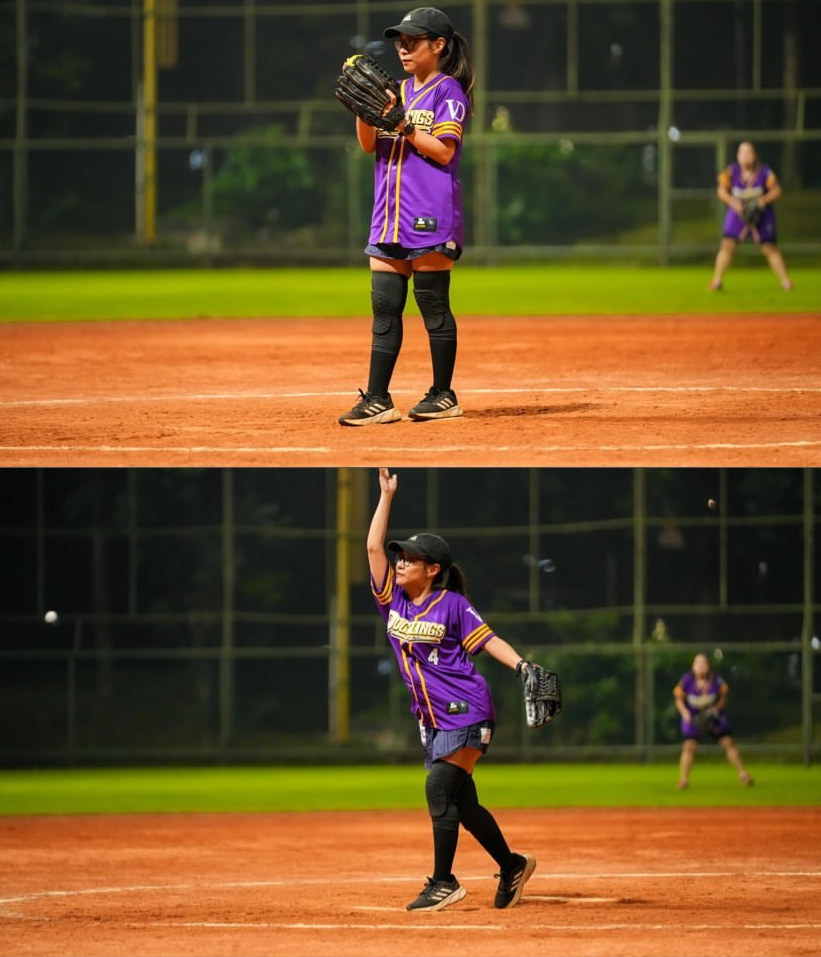
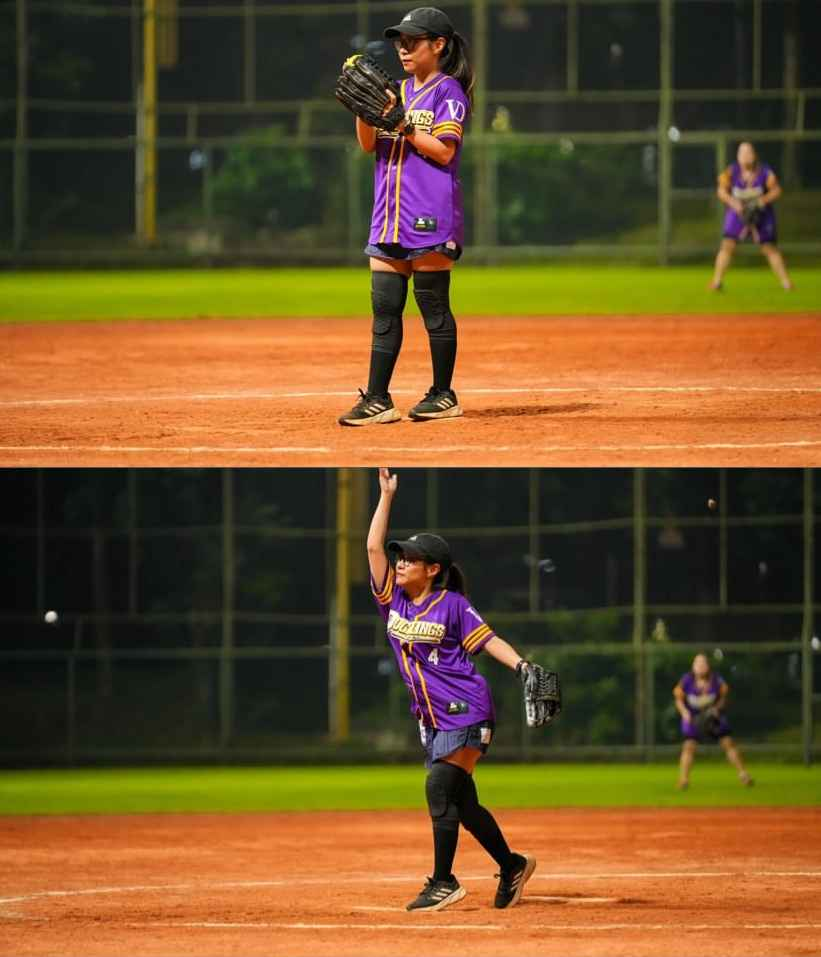
update

Changed region(s): [[0.4568, 0.0606, 0.5786, 0.2727], [0.4568, 0.6061, 0.5786, 0.7576], [0.5786, 0.6364, 0.609, 0.6667]]

diff --git a/index.html b/index.html
@@ -114,18 +114,18 @@
 								</div>
 								<div class="gallery">
 									<div class="group span-3">
-										<a href="images/gallery/part-one/p2.png" class="image filtered span-3" data-position="bottom"><img src="images/gallery/part-one/p2.png" alt="" /></a>
-										<a href="images/gallery/part-one/p1.png" class="image filtered span-1-5" data-position="center"><img src="images/gallery/part-one/p1.png" alt="" /></a>
-										<a href="images/gallery/part-one/p3.png" class="image filtered span-1-5" data-position="bottom"><img src="images/gallery/part-one/p3.png" alt="" /></a>
+										<a href="images/gallery/part-one/p2.jpg" class="image filtered span-3" data-position="bottom"><img src="images/gallery/part-one/p2.jpg" alt="" /></a>
+										<a href="images/gallery/part-one/p1.jpg" class="image filtered span-1-5" data-position="center"><img src="images/gallery/part-one/p1.jpg" alt="" /></a>
+										<a href="images/gallery/part-one/p3.jpg" class="image filtered span-1-5" data-position="bottom"><img src="images/gallery/part-one/p3.jpg" alt="" /></a>
 									</div>
 									<a href="images/gallery/part-one/p10.jpg" class="image filtered span-2-5" data-position="top"><img src="images/gallery/part-one/p10.jpg" alt="" /></a>
 									<div class="group span-4-5">
-										<a href="images/gallery/part-one/p8.png" class="image filtered span-3" data-position="top"><img src="images/gallery/part-one/p8.png" alt="" /></a>
-										<a href="images/gallery/part-one/p4.png" class="image filtered span-1-5" data-position="center"><img src="images/gallery/part-one/p4.png" alt="" /></a>
-										<a href="images/gallery/part-one/p7.png" class="image filtered span-1-5" data-position="bottom"><img src="images/gallery/part-one/p7.png" alt="" /></a>
-										<a href="images/gallery/part-one/p9.png" class="image filtered span-3" data-position="top"><img src="images/gallery/part-one/p9.png" alt="" /></a>
+										<a href="images/gallery/part-one/p8.jpg" class="image filtered span-3" data-position="top"><img src="images/gallery/part-one/p8.jpg" alt="" /></a>
+										<a href="images/gallery/part-one/p4.jpg" class="image filtered span-1-5" data-position="center"><img src="images/gallery/part-one/p4.jpg" alt="" /></a>
+										<a href="images/gallery/part-one/p7.jpg" class="image filtered span-1-5" data-position="bottom"><img src="images/gallery/part-one/p7.jpg" alt="" /></a>
+										<a href="images/gallery/part-one/p9.jpg" class="image filtered span-3" data-position="top"><img src="images/gallery/part-one/p9.jpg" alt="" /></a>
 									</div>
-									<a href="images/gallery/part-one/p11.png" class="image filtered span-2-5" data-position="right"><img src="images/gallery/part-one/p11.png" alt="" /></a>
+									<a href="images/gallery/part-one/p11.jpg" class="image filtered span-2-5" data-position="right"><img src="images/gallery/part-one/p11.jpg" alt="" /></a>
 								</div>
 								<div class="intro color2">
 									<h2 class="major">A Year to Remember</h2>
@@ -134,8 +134,8 @@
 																<div class="gallery">
 									<div class="group span-3">
 										<a href="images/gallery/fulls/01.jpg" class="image filtered span-3" data-position="bottom"><img src="images/gallery/thumbs/01.jpg" alt="" /></a>
-										<a href="images/gallery/part-one/p6.png" class="image filtered span-1-5" data-position="center"><img src="images/gallery/part-one/p6.png" alt="" /></a>
-										<a href="images/gallery/part-one/p12.png" class="image filtered span-1-5" data-position="bottom"><img src="images/gallery/part-one/p12.png" alt="" /></a>
+										<a href="images/gallery/part-one/p6.jpg" class="image filtered span-1-5" data-position="center"><img src="images/gallery/part-one/p6.jpg" alt="" /></a>
+										<a href="images/gallery/part-one/p12.jpg" class="image filtered span-1-5" data-position="bottom"><img src="images/gallery/part-one/p12.jpg" alt="" /></a>
 									</div>
 									<a href="images/gallery/fulls/09.jpg" class="image filtered span-2-5" data-position="right"><img src="images/gallery/thumbs/09.jpg" alt="" /></a>
 								</div>
@@ -315,7 +315,7 @@
 									<h1 class="major">For Everything You Are</h1>
 									<p>As we reach the end of this birthday card journey through memories, dreams, and the love that surrounds you, I just want to let it all sink in. Each section, every memory, wish, and dream here reflects the incredible person you are and the lasting impact you have on those around you.
 
-<p>For me, thank you for inviting me into your world—for the light you bring to my days, for the quiet strength you show, and for simply being you. Every moment with you feels like a new beginning, a chance to make beautiful memories each day with warmth, meaning, and love. I feel incredibly grateful to share this life with you, and I can’t wait to see where the next chapter takes us, side by side. My wish is that Allah SWT fills your life with blessings and surrounds you with love and protection always. So, once again <b>Happy Birthday Love.</b></p>
+<p>For me, thank you for inviting me into your world—for the light you bring to my days, for the quiet strength you show, and for simply being you. Every moment with you feels like a new beginning, a chance to make beautiful memories each day with warmth, meaning, and love. I feel incredibly grateful to share this life with you, and I can’t wait to see where the next chapter takes us, side by side. My wish is that Allah SWT fills your life with blessings and surrounds you with love and protection always. So, once again <b>Happy Birthday Arin.</b></p>
 
 									<h4>Your biggest Fan</h4>
 								</div>
